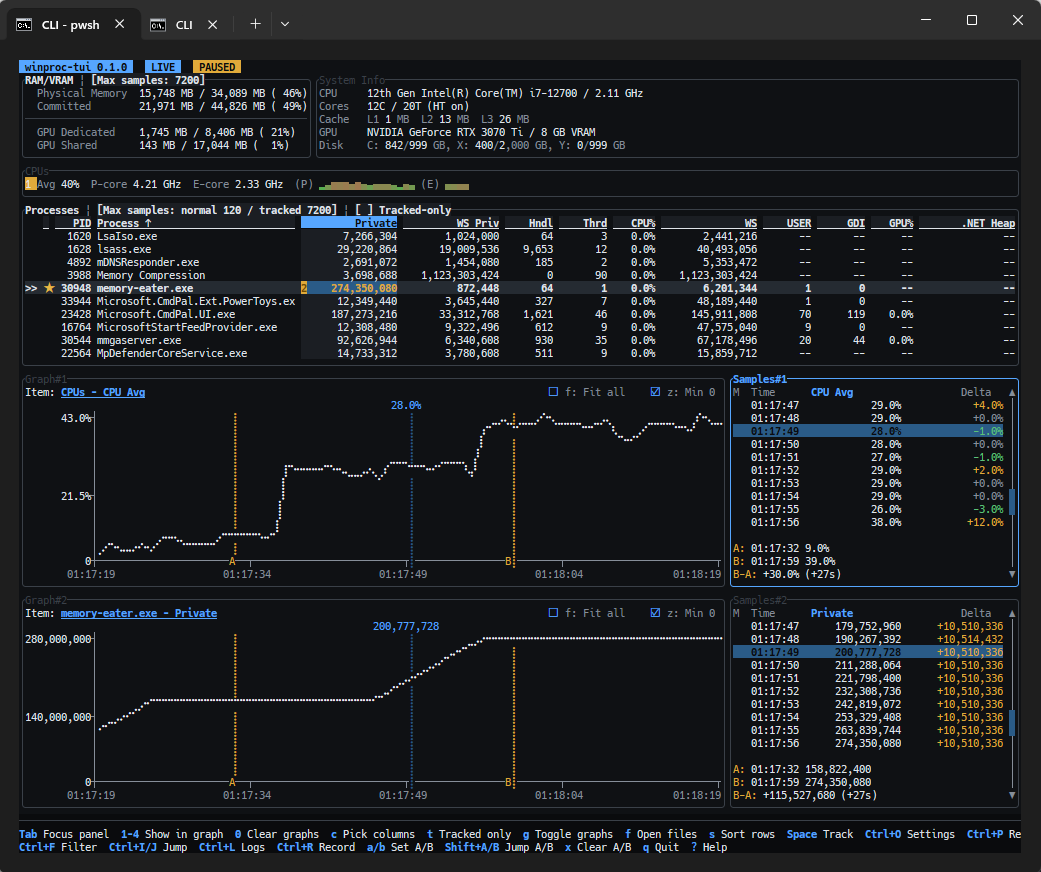
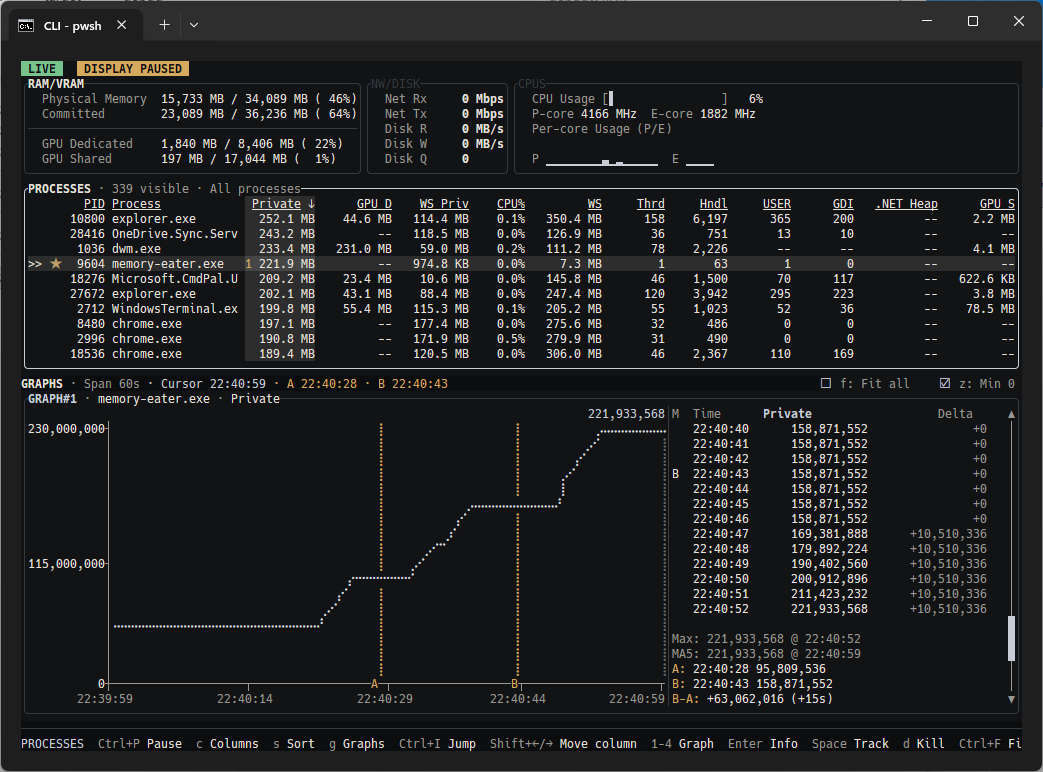
docs: improve README onboarding

diff --git a/README.md b/README.md
@@ -6,35 +6,77 @@
 
 Languages: [English](README.md) | [Japanese](README.ja.md)
 
-This is the original upstream repository for `winproc-tui`.
-Third-party copies, mirrors, or modified repositories are not official project repositories.
-
 `winproc-tui` is a **process monitoring TUI** for tracking per-process resource usage over time.
-It runs in the terminal and shows current values and changes over time for memory, handles, GUI resources, GPU memory, I/O, and other process metrics. With up to four Graphs, A/B comparison, and JSON Lines recording with a saved-log view, it is built to quickly answer what resources the process you are watching uses, when, and how much. Rather than competing on breadth with Process Explorer or System Informer, `winproc-tui` focuses on targeted resource behavior checks during development, verification, and day-to-day troubleshooting. It is built with Rust/Ratatui.
+It shows current values and changes over time for memory, handles, GUI resources, GPU memory, I/O, and other Windows process metrics. Up to four Graphs, A/B comparison, recording, and saved-log review support resource-behavior investigations during development and verification.
+Rather than providing the broad system inspection of Process Explorer or System Informer, it focuses on quickly following changes in a specific process. It is built with Rust/Ratatui.
 
-![winproc-tui main screen showing the process list, multiple Graphs, Samples, and A/B comparison](assets/screenshots/main-screen.png)
+![winproc-tui main screen showing the process list, GRAPH#1, Samples, and A/B comparison](assets/screenshots/main-screen.png)
+
+_Example investigation of a process's private memory using tracking, display pause, and A/B comparison._
+
+## Quick Start
+
+### 1. Launch the App
+
+Download the zip from [GitHub Releases](https://github.com/TX230/winproc-tui/releases), extract it, and run `winproc-tui.exe`. No installer or additional runtime is required.
+
+The upper panels show system-wide RAM / VRAM, network / disk activity, and CPU usage. The `PROCESSES` panel lists running processes. Use `Tab` / `Shift+Tab` to move between panels and the arrow keys to select rows and columns.
+
+RAM / VRAM, average CPU usage, and NW/DISK System Activity retain history automatically from startup without registering a process name. The Tracked List applies only to process names.
+
+### 2. Graph Process Metrics
+
+1. In `PROCESSES`, select the process you want to inspect.
+2. Use `Left` / `Right` to select the metric column you want to inspect. For example, `Private` is the process's private memory usage.
+3. Press `1` to show that metric in `GRAPH#1`.
+4. Use `2` – `4` in the same way to compare up to four metrics.
+
+Press the same number again to clear that Graph slot, or press `0` to clear all Graphs. You can also select a metric in the RAM / VRAM, NW/DISK, or CPUS panel and assign it to a Graph with `1` – `4`.
+
+### 3. Compare Two Points
+
+Move focus to a Graph or Samples table, then use `Left` / `Right` to select a sample. Press `a` at the start point and `b` at the end point. The A/B display shows the value difference and elapsed time. Press `x` to clear the comparison.
+
+### 4. Track and Record a Process
+
+1. In `PROCESSES`, select a process. If there is no star beside its name, press `Space` to add the name to the Tracked List. `Space` toggles the registration.
+2. If needed, press `t` to switch between All processes and Tracked only. Tracked only view is not required for recording.
+3. Press `Ctrl+R`, choose a save path, and confirm to start recording.
+4. Press `Ctrl+R` again to stop recording and close the log.
+5. Press `Ctrl+L` to select and inspect a saved log.
+
+Recording requires at least one process name in the Tracked List. It can still start when no matching process is currently running. RAM / VRAM, average CPU usage, and System Activity require no registration and are recorded in every frame; the process list remains empty until a match appears.
+
+### Essential Keys
+
+| Key                 | Action                                      |
+| ------------------- | ------------------------------------------- |
+| `Tab` / `Shift+Tab` | Move between panels.                        |
+| Arrow keys          | Select a row, column, or sample.            |
+| `1` – `4`           | Assign the selected metric to a Graph.      |
+| `Space`             | Add/remove a process name in Tracked List.  |
+| `t`                 | Switch between All processes / Tracked only. |
+| `Ctrl+F`            | Filter the process list.                    |
+| `Ctrl+R`            | Start/stop recording.                       |
+| `Ctrl+L`            | Open a saved log.                           |
+| `?`                 | Show all key bindings.                      |
+| `q` / `Esc`         | Go back or open the quit confirmation.      |
 
 ## Features
 
 - **Monitoring**: Shows RAM / VRAM, network and disk activity, a compact CPU panel with average and per-logical-CPU load, and key per-process metrics in a table. Sorting, column selection, filtering, and jump search help you narrow down the target.
-- **Graphing**: Lays out selected metrics in up to four Graph / Samples slots so you can review time-series movement and individual sample values. General process history keeps about 120 seconds, while tracked-process, RAM / VRAM, and CPU average history keep about 7,200 seconds.
-- **Tracking (Tracked List)**: Registers process names of interest and can show only tracked rows. Their last collected values remain visible after the processes exit.
+- **Graphing**: Lays out selected metrics in up to four Graph / Samples slots so you can review time-series movement and individual sample values. General process history keeps about 120 seconds, while tracked-process and system-metric history (RAM / VRAM, System Activity, and CPU average) keeps about 7,200 seconds.
+- **Tracking (Tracked List)**: Registers process names of interest and can show only tracked rows. Their last collected values remain visible after the processes exit. RAM / VRAM, average CPU usage, and System Activity always retain history without registration.
 - **Recording and Log view**: Saves tracked processes, RAM / VRAM, CPU average, and system activity values as JSON Lines logs and opens them later in the same Processes / Graph / Samples / A/B layout.
 - **A/B comparison**: Marks any two points as A and B, then shows the value difference and elapsed time between them.
 - **Open files**: Lists the files a selected live process has open.
 - **Interaction support**: `Ctrl+C` copies the selected row to the clipboard, `F2` switches themes, and mouse-based row selection and scrollbars are supported.
 
-The Dark and Light themes use neutral-first palettes: generic focus and selection use quiet gray surfaces and explicit cursor / sort markers instead of a shared accent hue. The Processes table keeps live metric values and the Tracked Total row neutral instead of coloring every sample-to-sample increase or decrease. Underlined column names distinguish its header without bold styling or a full-row background band. The cursor row, selected column, and selected-column header share one grayscale surface, while their intersection uses a stronger grayscale surface. CPU utilization bars use the theme's neutral accent instead of a green-to-red severity gradient; bar length, glyph height, and numeric values show utilization. In Graphs, the cursor guide uses muted gray, ordinary Samples deltas stay neutral and show direction through their sign, and amber is reserved for the explicit A/B comparison markers. Green identifies `LIVE` and successful-action feedback; a subdued amber identifies `Tracked only` and tracked stars; the brighter warning amber identifies Graph slots, filter matches, A/B markers, `LOG`, paused/stale states, and warnings. Red is reserved for `REC`, danger, and errors. Shortcut keys remain neutral so semantic status colors stay easy to scan.
-The Processes title summarizes the current view with the visible row count, All processes / Tracked only mode, and active filter. Sort column and direction remain in the table header. Fixed history capacities are shown in Help instead of occupying persistent panel titles, while Log view may show the actual loaded sample count.
-Byte-valued memory columns use compact decimal units such as `388.1 MB` in the Processes overview. Sorting and Graph data continue to use raw values, while Samples, A/B comparison, clipboard output, and recording logs keep exact byte values.
-
-The header normally shows only `LIVE` or `REC`; the product name and version are available in Help and through `--version`. If no successful sample arrives for 3 seconds, it appends `STALE Ns` until another sample succeeds. `DISPLAY PAUSED` freezes only the displayed snapshot—sampling and an active recording continue. Saved logs use the `LOG` label and do not show live sampling freshness.
-
 ## When This Helps
 
-- You want to track an application's resource usage over time and watch for memory leaks.
-- You want to quantify how much a specific operation leaks (the difference between two points).
-- You want to detect missed file closes and see which files a process currently has open.
+- You want to investigate whether an application's memory usage keeps increasing.
+- You want to measure how memory or handle counts change before and after an operation.
+- You want to inspect currently open files for clues when investigating missed file closes.
 - You want to **record a background service over a long period** and review the area around an incident in Log view.
 - You want to compare resource usage before and after a refactor.
 
@@ -44,6 +86,8 @@ The header normally shows only `LIVE` or `REC`; the product name and version are
 
 This project is Windows-only. Linux, macOS, and other platforms are not supported.
 
+Administrator privileges are not required for normal monitoring. Some metrics and Open files may be unavailable for protected processes; unavailable values are displayed as `--` or a diagnostic state.
+
 ## Use a Prebuilt Binary
 
 Download the zip from [GitHub Releases](https://github.com/TX230/winproc-tui/releases), extract it to any folder, and run `winproc-tui.exe`. No additional runtime or installer is required.
@@ -51,13 +95,14 @@ Download the zip from [GitHub Releases](https://github.com/TX230/winproc-tui/rel
 Official release binaries are published only from [TX230/winproc-tui Releases](https://github.com/TX230/winproc-tui/releases).
 Binaries from third-party copies, mirrors, or modified repositories are not official builds.
 
-Use this PowerShell command to calculate the zip file's SHA256 hash:
+Download both the zip and its corresponding `.zip.sha256` file from the Release. Use these PowerShell commands to calculate the zip's SHA256 hash and display the published value:
 
 ```powershell
 Get-FileHash .\winproc-tui-X.Y.Z-windows-x64.zip -Algorithm SHA256
+Get-Content .\winproc-tui-X.Y.Z-windows-x64.zip.sha256
 ```
 
-Compare the `Hash` value with the `sha256:` digest shown next to the `.zip` asset on the official GitHub Releases page.
+Confirm that the `Hash` value from `Get-FileHash` matches the leading hash value in `.zip.sha256`.
 
 ## Build From Source
 
@@ -121,12 +166,12 @@ There are currently only two startup options.
 | `-V, --version` | Show version. |
 
 
-## Controls
+## Controls Reference
 
-Only the main keys are listed in this README.
+Only the main controls are listed in this README.
 **Press** `?` **while running to view the full key bindings in the Help dialog.**
 
-Some single-letter keys such as `f` map to different actions depending on which panel is focused. Persistent panel headings and the Footer's active-panel label use uppercase names such as `PROCESSES`, `CPUS`, `GRAPHS`, and `GRAPH#n`. In Live and Recording, `Ctrl+P Pause` stays visible across panels; it is omitted in Log view, where display pause is unavailable. The predictable Tab focus-cycle shortcut is omitted from the footer. The tables below list the complete controls by panel.
+Some single-letter keys such as `f` map to different actions depending on which panel is focused. Persistent panel headings and the Footer's active-panel label use uppercase names such as `PROCESSES`, `CPUS`, `GRAPHS`, and `GRAPH#n`. In Live and Recording, `Ctrl+P Pause` stays visible across panels; it is omitted in Log view, where display pause is unavailable. The predictable Tab focus-cycle shortcut is omitted from the footer. The tables below list the main controls by panel.
 
 ### General
 
@@ -190,6 +235,14 @@ The shared `f` and `z` shortcuts work while either the Graph or Samples part of 
 
 When multiple Graphs are shown, the visible time span, cursor position, and A/B points are shared across slots, while the Y-axis scale, sample availability, and value labels remain independent per Graph.
 If there is not enough display area, the message `Not enough display area.` is shown and the Graph is not added.
+
+## Display Conventions
+
+The header shows the current activity as `LIVE`, `REC`, or `LOG`. If no successful sample arrives for 3 seconds in Live or Recording, it adds `STALE Ns` until sampling succeeds again. `DISPLAY PAUSED` freezes only the displayed snapshot; sampling and recording continue.
+
+The Dark and Light themes use quiet grayscale surfaces for focus and selection. Green identifies `LIVE` and successful actions, amber identifies tracked items, Graph slots, A/B markers, `LOG`, and warnings, and red is reserved for `REC`, danger, and errors. CPU usage is shown by bar length and numeric values rather than a green-to-red severity gradient.
+
+The `PROCESSES` title shows the visible row count, All processes / Tracked only mode, and active filter. Sort direction remains in the table header. Memory values use compact decimal units such as `388.1 MB` in the table, while Samples, A/B comparison, clipboard output, and recording logs retain exact byte values.
 
 ## Recording and Log View
 